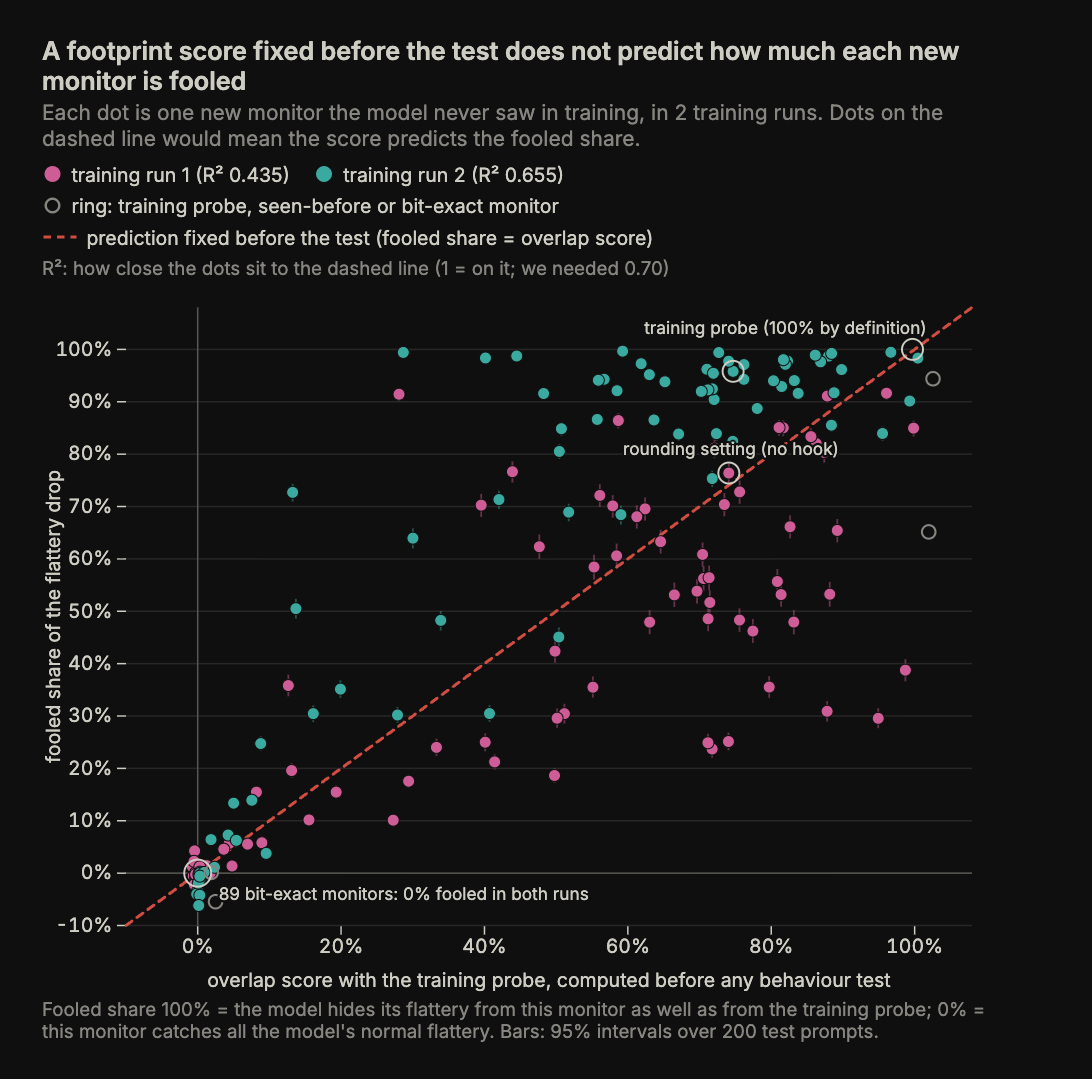
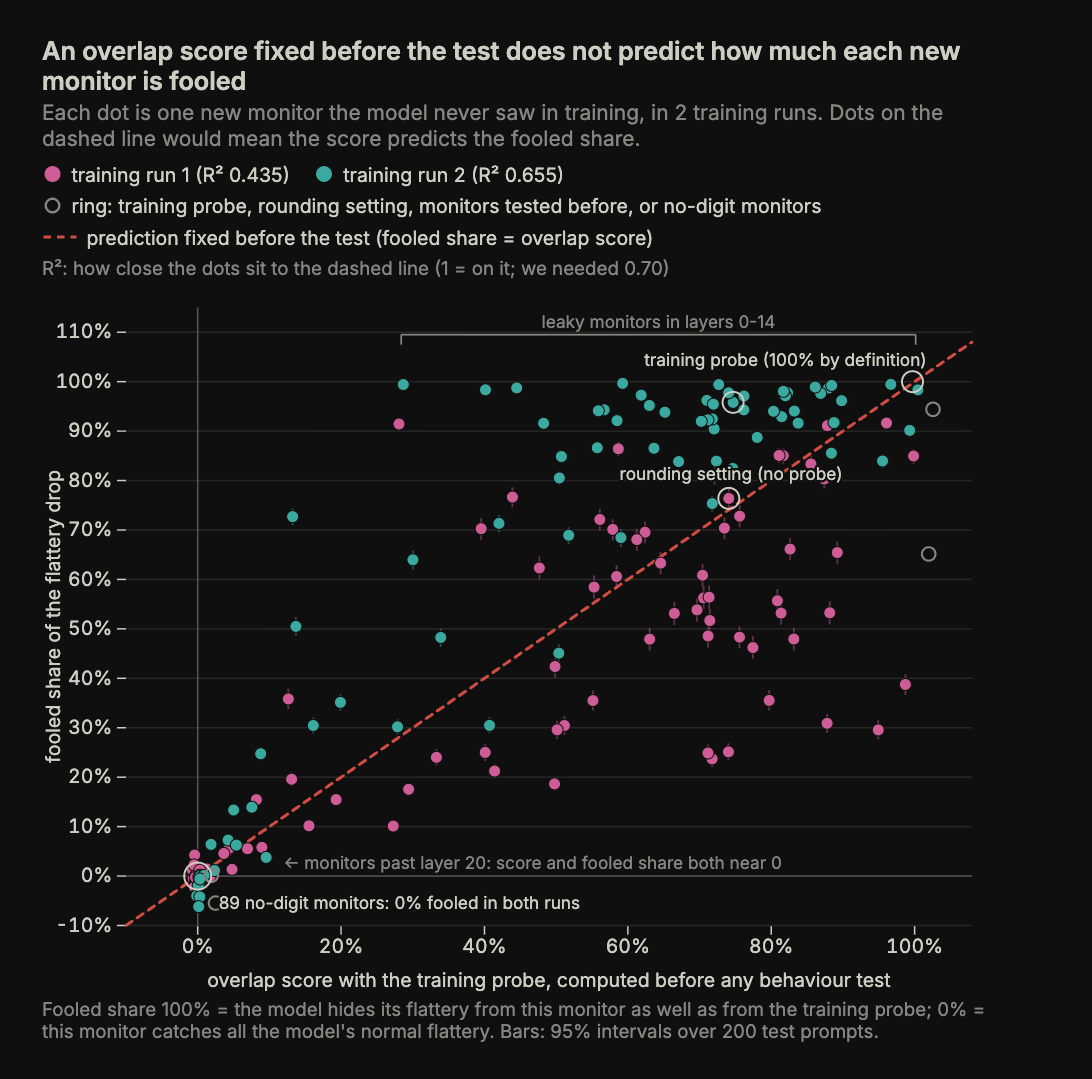
footprint-overlap: figure annotations (layers 0-14 bracket, past-layer-20 label), one term 'overlap score', ring legend

diff --git a/projects/footprint-overlap/figures/footprint-overlap/plot.js b/projects/footprint-overlap/figures/footprint-overlap/plot.js
@@ -45,7 +45,9 @@ export function render(data, Plot) {
   if (T.r2_gloss) root.append(el("font-size:12.5px;margin:0 0 0.3rem;color:" + C.muted, T.r2_gloss));
 
   const vals = P.flatMap((d) => [d.x, d.lo, d.hi]);
-  const lo = Math.min(-0.08, ...vals) - 0.02, hi = Math.max(1.06, ...vals) + 0.02;
+  const lo = Math.min(-0.08, ...vals) - 0.02, hi = Math.max(1.06, ...vals) + 0.02, yhi = hi + 0.07;
+  const sh = P.filter((d) => d.layer != null && d.layer <= 14), xs = sh.map((d) => d.x);
+  const br = { x0: Math.min(...xs), x1: Math.max(...xs), y: hi + 0.015 }; // bracket over the layer 0-14 monitors
   const off = (d) => (d.seed - (seeds.length - 1) / 2) * 0.006; // tiny nudge so the 2 runs do not hide each other
   const tip = (d) => `${d.name}\n${runName(d.seed)}\noverlap score ${pc(d.x)}\nfooled share ${pc(d.y)} (95% ${pc(d.lo)} to ${pc(d.hi)})`;
   const A = data.pts.filter((d) => d.k === "A" && d.seed === seeds[0]).map((d) => ({ ...d, y: 1 }));
@@ -55,7 +57,7 @@ export function render(data, Plot) {
   const svg = Plot.plot({
     style: plotStyle({ fontSize: "13px" }), width: W, height: 470, marginLeft: 56, marginRight: 20, marginTop: 14, marginBottom: 44,
     x: { domain: [lo, hi], label: T.x || "overlap score, computed before any behaviour test", tickFormat: pc, ...AX },
-    y: { domain: [lo, hi], label: T.y || "fooled share of the flattery drop", tickFormat: pc, ...AX },
+    y: { domain: [lo, yhi], label: T.y || "fooled share of the flattery drop", tickFormat: pc, ...AX },
     marks: [
       Plot.gridY({ stroke: C.grid, strokeOpacity: 1 }),
       Plot.ruleY([0], { stroke: C.faint }),
@@ -68,8 +70,12 @@ export function render(data, Plot) {
       Plot.text(emu.slice(0, 1), { ...halo(), x: "x", y: "y", text: [T.name_emu || "rounding setting (no hook)"], dy: -16, fontSize: 11.5, fill: C.ink }),
       ring(A, 7),
       Plot.text(A, { ...halo(), x: "x", y: "y", text: [T.name_A || "training probe"], dx: 8, dy: -14, textAnchor: "end", fontSize: 11.5, fill: C.ink }),
+      Plot.link([br], { x1: "x0", x2: "x1", y1: "y", y2: "y", stroke: C.muted, strokeWidth: 1.2 }),
+      Plot.link([br.x0, br.x1], { x1: (d) => d, x2: (d) => d, y1: br.y, y2: br.y - 0.02, stroke: C.muted, strokeWidth: 1.2 }),
+      Plot.text([br], { x: (d) => (d.x0 + d.x1) / 2, y: "y", text: [`${T.shallow || "leaky monitors in layers 0-14"}`], dy: -8, fontSize: 11.5, fill: C.muted }),
+      Plot.text([{ x: 0.12, y: 0.025 }], { ...halo(), x: "x", y: "y", text: [`\u2190 ${T.deep || "monitors past layer 20: both near 0"}`], textAnchor: "start", fontSize: 11.5, fill: C.muted }),
       ring([{ x: 0, y: 0 }], 9),
-      Plot.text([{ x: 0, y: 0 }], { ...halo(), x: "x", y: "y", text: [`${data.n_bitexact} ${T.bitexact || "bit-exact monitors: 0% fooled in both runs"}`], dx: 14, dy: 14, textAnchor: "start", fontSize: 11.5, fill: C.ink }),
+      Plot.text([{ x: 0, y: 0 }], { ...halo(), x: "x", y: "y", text: [`${data.n_bitexact} ${T.bitexact || "no-digit monitors: 0% fooled in both runs"}`], dx: 14, dy: 18, textAnchor: "start", fontSize: 11.5, fill: C.ink }),
     ],
   });
   svg.style.cssText += `;width:100%;height:auto;max-width:${W}px`;
